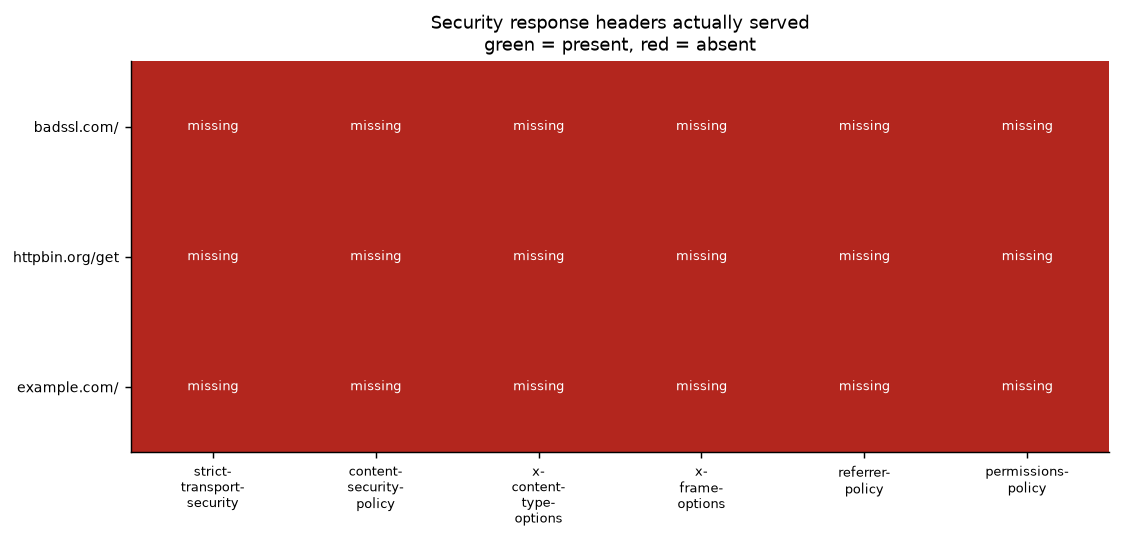
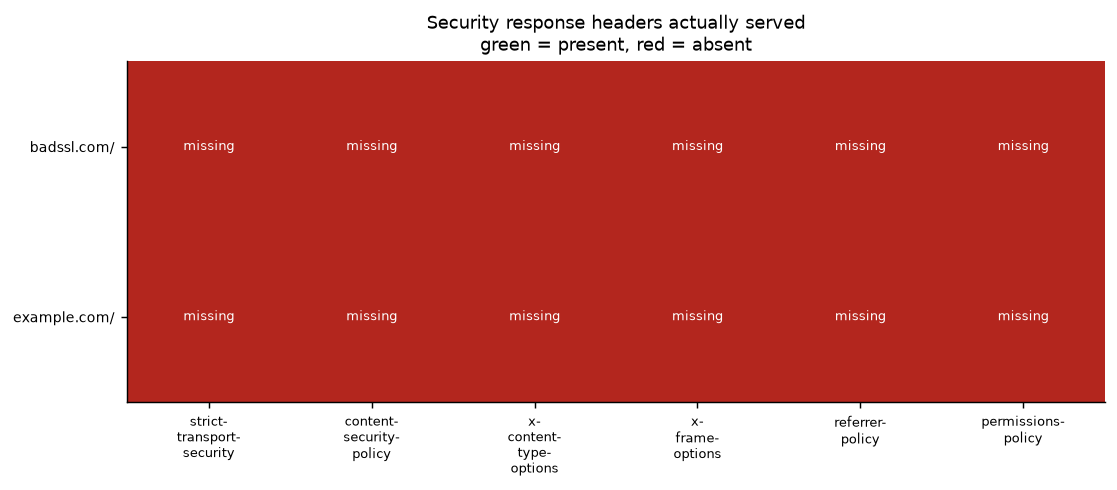
Report polish: render products with no version explicitly, keep findings.md ASCII

diff --git a/02-vulnerability-scanner/src/report.py b/02-vulnerability-scanner/src/report.py
@@ -318,7 +318,7 @@ def write_findings(summary, services, tls_results, http_results, triaged,
             for hit in controls.suspected_interception:
                 a(f"- Port **{hit['port']}** on "
                   f"{', '.join(f'`{h}`' for h in hit['hosts'])} "
-                  f"— evidence: {hit.get('evidence', 'coincidence')}")
+                  f"- evidence: {hit.get('evidence', 'coincidence')}")
                 if hit.get("banner"):
                     a(f"  - banner: `{hit['banner']}`")
                 a(f"  - {hit['reason']}")
@@ -358,7 +358,14 @@ def write_findings(summary, services, tls_results, http_results, triaged,
     a("| host | port | service | banner fingerprint | distribution marker |")
     a("|---|---|---|---|---|")
     for svc in services:
-        ident = f"`{svc.product} {svc.version}`" if svc.product else "_not identified_"
+        if svc.product and svc.version:
+            ident = f"`{svc.product} {svc.version}`"
+        elif svc.product:
+            # A product name with no version is not enough for a CVE lookup, so
+            # say that rather than rendering a bare "None".
+            ident = f"`{svc.product}` (no version disclosed)"
+        else:
+            ident = "_not identified_"
         marker = f"`{svc.distro_marker}`" if svc.has_distro_marker else "-"
         a(f"| {svc.host} | {svc.port} | {svc.guessed_service} | {ident} | {marker} |")
     a("")

diff --git a/02-vulnerability-scanner/outputs/reports/findings.md b/02-vulnerability-scanner/outputs/reports/findings.md
@@ -2,7 +2,7 @@
 
 M Jaswanth Kumar. Generated by `python -m src.scan`; every number below comes from that run.
 
-- Scan took 126.2s across 2 port-scanned hosts, 10 TLS endpoints and 4 HTTP targets.
+- Scan took 116.5s across 2 port-scanned hosts, 10 TLS endpoints and 4 HTTP targets.
 - CISA KEV snapshot: 1673 entries, released 2026-08-20T17:00:27.8837Z.
 - Feeds consulted: NVD CVE API 2.0, CISA KEV, FIRST EPSS. 0 live API calls this run (the rest served from the on-disk cache).
 
@@ -25,10 +25,10 @@ Before trusting any open port, two controls ask whether the scan is measuring th
 
 **Interception detected.** The following ports are excluded from every finding below:
 
-- Port **110** on `127.0.0.1`, `scanme.nmap.org` — evidence: interceptor banner
+- Port **110** on `127.0.0.1`, `scanme.nmap.org` - evidence: interceptor banner
   - banner: `-ERR Can not connect to e-mail server. Error:100502`
   - port 110 answered with '-ERR Can not connect to e-mail server. Error:100502' on 127.0.0.1. The signature 'Can not connect to e-mail server' identifies the responder as a local security product answering on this port's behalf, not the service the port number implies. Any finding derived from this port would be about the local machine's antivirus, not about the target.
-- Port **143** on `127.0.0.1`, `scanme.nmap.org` — evidence: interceptor banner
+- Port **143** on `127.0.0.1`, `scanme.nmap.org` - evidence: interceptor banner
   - banner: `BAD Can not connect to e-mail server. Error:100502`
   - port 143 answered with 'BAD Can not connect to e-mail server. Error:100502' on 127.0.0.1. The signature 'Can not connect to e-mail server' identifies the responder as a local security product answering on this port's behalf, not the service the port number implies. Any finding derived from this port would be about the local machine's antivirus, not about the target.
 
@@ -46,7 +46,7 @@ A TCP connect scan fundamentally cannot separate "the target accepted my connect
 |---|---|---|---|---|
 | 127.0.0.1 | 135 | msrpc | _not identified_ | - |
 | 127.0.0.1 | 445 | microsoft-ds | _not identified_ | - |
-| 127.0.0.1 | 5000 | upnp | `kestrel None` | - |
+| 127.0.0.1 | 5000 | upnp | `kestrel` (no version disclosed) | - |
 | 127.0.0.1 | 5432 | postgresql | _not identified_ | - |
 | scanme.nmap.org | 22 | ssh | `openssh 6.6.1p1` | `Ubuntu` |
 | scanme.nmap.org | 9929 | nping-echo | _not identified_ | - |
@@ -122,12 +122,8 @@ Two of these deserve comment. A host offering TLS 1.0 is not merely dated: RFC 8
 - missing: strict-transport-security, content-security-policy, x-content-type-options, x-frame-options, referrer-policy, permissions-policy
 - server header discloses software: server: 'nginx/1.10.3 (Ubuntu)'. It contains a version number, which is what turns a banner into a CVE search.
 
-- `http://scanme.nmap.org/` unreachable: ConnectTimeout: HTTPConnectionPool(host='scanme.nmap.org', port=80): Max retries exceeded with url: / (Caused by ConnectTimeoutError(<HTTPConnection(host='scanme.nmap.org', port=80) at 0x17acc72f4d0>, 'Connection to scanme.nmap.org timed out. (connect timeout=15.0)'))
-**`https://httpbin.org/get`** - HTTP 200, 7 headers, 8 findings.
-
-- missing: strict-transport-security, content-security-policy, x-content-type-options, x-frame-options, referrer-policy, permissions-policy
-- server header discloses software: server: 'gunicorn/19.9.0'. It contains a version number, which is what turns a banner into a CVE search.
-
+- `http://scanme.nmap.org/` unreachable: ConnectTimeout: HTTPConnectionPool(host='scanme.nmap.org', port=80): Max retries exceeded with url: / (Caused by ConnectTimeoutError(<HTTPConnection(host='scanme.nmap.org', port=80) at 0x22a6e8db380>, 'Connection to scanme.nmap.org timed out. (connect timeout=15.0)'))
+- `https://httpbin.org/get` unreachable: ReadTimeout: HTTPSConnectionPool(host='httpbin.org', port=443): Read timed out. (read timeout=15.0)
 **`https://example.com/`** - HTTP 200, 11 headers, 7 findings.
 
 - missing: strict-transport-security, content-security-policy, x-content-type-options, x-frame-options, referrer-policy, permissions-policy
